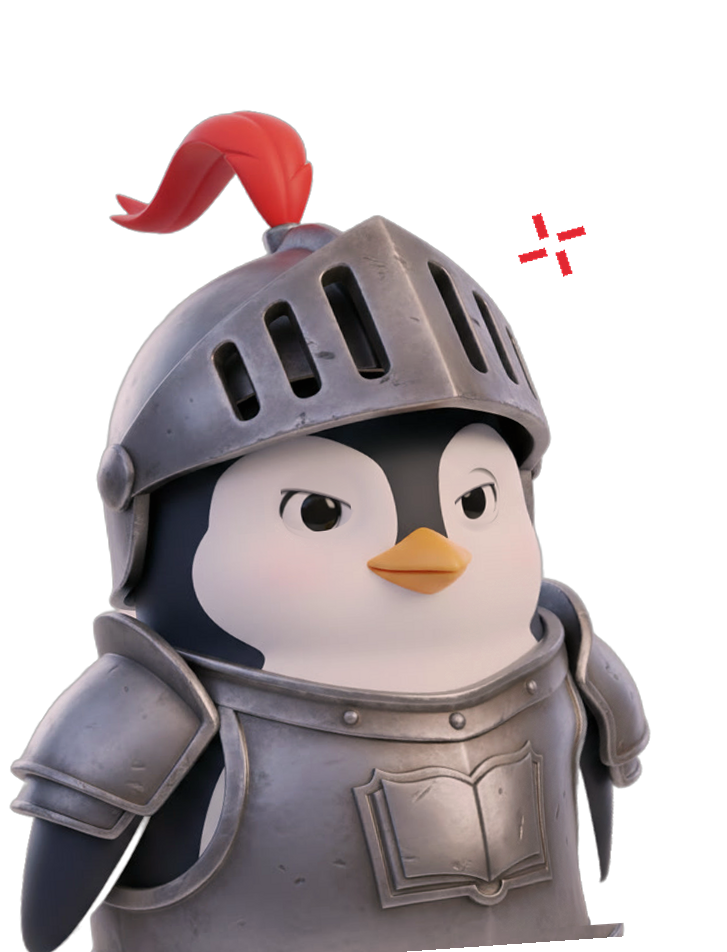
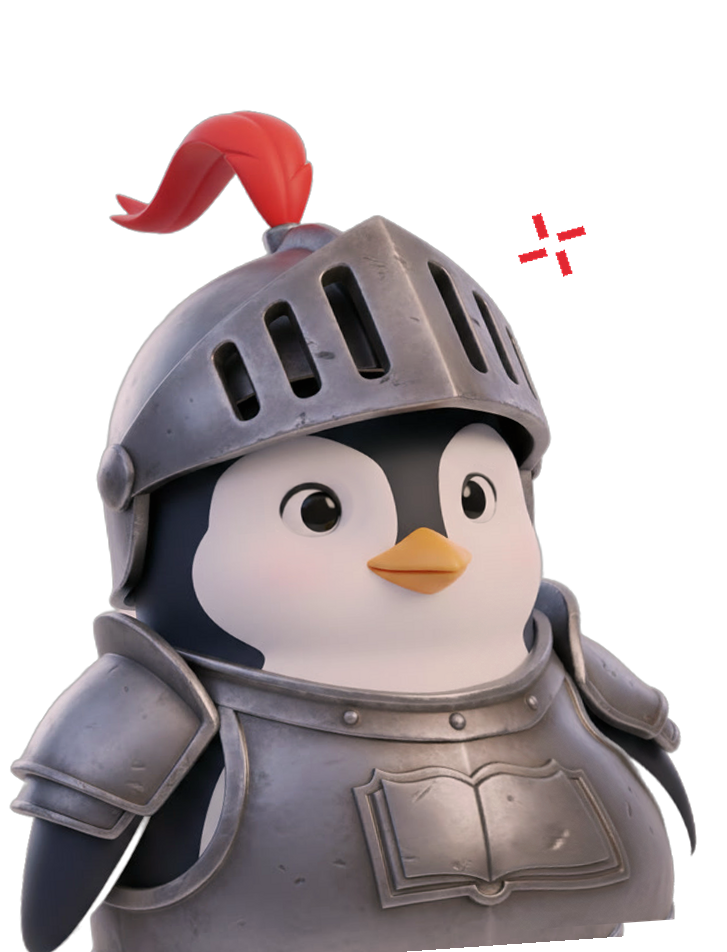
Моргание: глаза открыты, моргание 0.12–0.18 с раз в 3–6 с
- Глаза по умолчанию полностью открыты: убраны полуприкрытые веки
  у важного, злого, задумчивого и испуганного.
- Моргание: закрыть 0.04 с, кадр закрыто, открыть — всего 0.12–0.18 с;
  случайно раз в 3–6 с, иногда двойное. Без лишних морганий при смене эмоции.
- Прищур только у [смеющийся] и не дольше 1 с.
- Веко рисуется только в пределах глаза; место глаза заливается
  гармонической заливкой, без пятен и швов.
- assets/sir_lat/blink_check/: кадры до, во время и после моргания и прищура.

Claude-Session: https://claude.ai/code/session_01Av9aVcnuGWnAGAmF4SFuLt

diff --git a/sirlat/character.py b/sirlat/character.py
@@ -58,26 +58,27 @@ def base_image() -> Image.Image:
 # --------------------------------------------------------------- параметры ---
 # Все размеры в пикселях исходной картинки (масштабируются под кадр).
 # angle: + — наклон к экрану (влево); visor: − вверх, + вниз;
-# lid_top/lid_bot: доля закрытия века сверху/снизу; tilt: + внутренние уголки
+# Глаза по умолчанию полностью открыты; прищур (lid_top/lid_bot/curve) — только у
+# смеющегося и не дольше 1 с. lid_top/lid_bot: доля закрытия века; tilt: + внутренние уголки
 # век ниже (хмурится), − выше (волнуется); curve: «улыбчивые» нижние веки.
 EMO = {
     "important":  dict(angle=-2.5, scale=1.04, sx=1.00, sy=1.02, dx=0.00, dy=0.000, visor=-2,
-                       lid_top=0.30, lid_bot=0.00, tilt=-0.05, curve=0.0, eye=1.00, gx=0.0, gy=0.0,
+                       lid_top=0.00, lid_bot=0.00, tilt=0.00, curve=0.0, eye=1.00, gx=0.0, gy=0.0,
                        sway=0.8, shake=0.0, hop=0.0, tint=(1.0, 1.0, 1.0)),
     "surprised":  dict(angle=0.0, scale=1.08, sx=0.97, sy=1.05, dx=0.00, dy=-0.020, visor=-14,
                        lid_top=0.00, lid_bot=0.00, tilt=0.00, curve=0.0, eye=1.22, gx=0.0, gy=-0.1,
                        sway=0.5, shake=0.0, hop=0.0, tint=(1.0, 1.0, 1.0)),
     "laughing":   dict(angle=2.0, scale=1.03, sx=1.00, sy=1.00, dx=0.00, dy=0.000, visor=-5,
-                       lid_top=0.22, lid_bot=0.36, tilt=0.00, curve=0.45, eye=1.00, gx=0.0, gy=0.0,
+                       lid_top=0.14, lid_bot=0.22, tilt=0.00, curve=0.30, eye=1.00, gx=0.0, gy=0.0,
                        sway=1.4, shake=0.0, hop=1.0, tint=(1.04, 1.0, 0.98)),
     "angry":      dict(angle=6.0, scale=1.07, sx=1.04, sy=0.97, dx=-0.02, dy=0.000, visor=9,
-                       lid_top=0.30, lid_bot=0.08, tilt=0.55, curve=0.0, eye=0.95, gx=-0.2, gy=0.0,
+                       lid_top=0.00, lid_bot=0.00, tilt=0.00, curve=0.0, eye=0.95, gx=-0.2, gy=0.0,
                        sway=0.4, shake=0.6, hop=0.0, tint=(1.06, 0.95, 0.94)),
     "thoughtful": dict(angle=7.0, scale=0.98, sx=1.00, sy=1.00, dx=0.00, dy=0.000, visor=-4,
-                       lid_top=0.18, lid_bot=0.10, tilt=0.00, curve=0.0, eye=1.00, gx=-0.55, gy=-0.6,
+                       lid_top=0.00, lid_bot=0.00, tilt=0.00, curve=0.0, eye=1.00, gx=-0.55, gy=-0.6,
                        sway=1.2, shake=0.0, hop=0.0, tint=(1.0, 1.0, 1.0)),
     "scared":     dict(angle=-7.0, scale=0.91, sx=0.96, sy=0.98, dx=0.03, dy=0.000, visor=-7,
-                       lid_top=0.00, lid_bot=0.00, tilt=-0.35, curve=0.0, eye=1.14, gx=0.0, gy=0.0,
+                       lid_top=0.00, lid_bot=0.00, tilt=0.00, curve=0.0, eye=1.14, gx=0.0, gy=0.0,
                        sway=0.3, shake=2.5, hop=0.0, tint=(0.94, 0.98, 1.08)),
 }
 # позы: добавки к телу и положение крыльев (градусы, + — крыло поднимается наружу)
@@ -203,9 +204,13 @@ class Animator:
         self.gaze = [0.0, 0.0]
         self.gaze_target = [0.0, 0.0]
         self.next_saccade = self.rnd.uniform(0.8, 2.5)
-        self.blink_start = self.rnd.uniform(0.8, 2.5)
-        self.blink_queue = []
+        # моргание: 0.12–0.18 с, раз в 3–6 с, иногда двойное
+        self.next_blink = self.rnd.uniform(1.5, 4.0)
+        self.blink_t0, self.blink_dur = -10.0, 0.15
+        self.double_pending = False
+        self.last_blink = 0.0
         self.prev_emotion = None
+        self.emotion_since = 0.0
         self.t = 0.0
         self._mouth_cache = {}
 
@@ -238,8 +243,16 @@ class Animator:
             fill_h = left[:, None] * (1 - u) + right[:, None] * u
             fill = 0.5 * fill_v + 0.5 * fill_h
             d = ((xx - lx) / (rx * 1.3)) ** 2 + ((yy - ly) / (ry * 1.3)) ** 2
-            m = np.clip((1.0 - d) * 2.5, 0, 1)[..., None]
-            eyeless = patch * (1 - m) + fill * m
+            # гармоническая заливка: цвет плавно «растекается» от краёв области
+            # внутрь, поэтому на месте глаза нет заметного пятна или кольца
+            hole = d <= 1.0
+            eyeless = patch.copy()
+            eyeless[hole] = fill[hole]
+            for _ in range(400):
+                avg = (np.roll(eyeless, 1, 0) + np.roll(eyeless, -1, 0)
+                       + np.roll(eyeless, 1, 1) + np.roll(eyeless, -1, 1)) / 4
+                eyeless[hole] = avg[hole]
+            hole_soft = np.clip((1.0 - d) * 4, 0, 1)
             # сам глаз — RGBA с мягкой эллиптической маской
             de = ((xx - lx) / (rx * 1.12)) ** 2 + ((yy - ly) / (ry * 1.12)) ** 2
             ea = np.clip((1.0 - de) * 5, 0, 1)
@@ -248,7 +261,7 @@ class Animator:
             inner = 1 if cx < self.P(*self._beak_center())[0] else -1   # где внутренний уголок
             self.eyes.append(dict(cx=cx, cy=cy, rx=rx, ry=ry, box=(bx0, by0, bx1, by1),
                                   eyeless=eyeless, eye=Image.fromarray(eye_rgba.astype(np.uint8), "RGBA"),
-                                  lx=lx, ly=ly, inner=inner, yy=yy, xx=xx))
+                                  lx=lx, ly=ly, inner=inner, yy=yy, xx=xx, hole=hole_soft))
 
     def _beak_center(self):
         x0, y0, x1, y1 = LM["beak"]
@@ -415,6 +428,8 @@ class Animator:
         closed = y_top >= y_bot - 0.6
         lid = np.clip(y_top - yy + 0.5, 0, 1) + np.clip(yy - y_bot + 0.5, 0, 1)
         lid = np.maximum(np.clip(lid, 0, 1), closed.astype(np.float32))[..., None]
+        # веко — только в пределах глаза и его «впадины»; у открытого глаза ничего не меняем
+        lid = lid * e["hole"][..., None] * min(1.0, (lid_top + lid_bot) * 8)
         img[..., :3] = img[..., :3] * (1 - lid) + eyeless[..., :3] * lid
         # тёмная линия по краю верхнего века; у закрытого глаза — дуга
         inside = (np.abs(nx) < 0.97) & (yy > oy - rys * 1.3) & (yy < oy + rys * 1.3)
@@ -471,9 +486,8 @@ class Animator:
         for k in self.w_pose:
             self.w_pose[k] = _approach(self.w_pose[k], 1.0 if k == pose else 0.0, dt, 0.1)
         if emotion != self.prev_emotion:
-            if self.prev_emotion is not None and self.rnd.random() < 0.6:
-                self.blink_start = t + 0.05      # моргнуть при смене эмоции
             self.prev_emotion = emotion
+            self.emotion_since = t
         E = {k: sum(self.w_emo[e] * EMO[e][k] for e in EMO) for k in EMO["important"] if k != "tint"}
         tint = [sum(self.w_emo[e] * EMO[e]["tint"][i] for e in EMO) for i in range(3)]
         Pz = {k: sum(self.w_pose[p] * POSE[p][k] for p in POSE) for k in POSE["none"]}
@@ -500,20 +514,35 @@ class Animator:
         gx = max(-1.2, min(1.2, self.gaze[0] * (1 - self.w_emo["thoughtful"] * 0.6) + E["gx"]))
         gy = max(-1.0, min(1.0, self.gaze[1] * (1 - self.w_emo["thoughtful"] * 0.6) + E["gy"]))
 
-        # моргание: закрыть ~0.07 с, открыть ~0.12 с; иногда дважды
-        if t >= self.blink_start + 0.3:
-            double = self.rnd.random() < 0.18
-            self.blink_start = t + (0.12 if double else self.rnd.uniform(2.0, 5.5))
-        bt = t - self.blink_start
+        # моргание: быстро закрыть (0.04 с), один кадр закрыто (0.04 с), открыть;
+        # всего 0.12–0.18 с. Раз в 3–6 с, иногда сразу второе (двойное).
+        if t >= self.next_blink:
+            self.blink_t0 = self.next_blink
+            self.blink_dur = self.rnd.uniform(0.12, 0.18)
+            if not self.double_pending and self.rnd.random() < 0.18:
+                self.double_pending = True
+                self.next_blink = self.blink_t0 + self.blink_dur + self.rnd.uniform(0.08, 0.14)
+            else:
+                self.double_pending = False
+                self.next_blink = self.blink_t0 + self.rnd.uniform(3.0, 6.0)
+        bt = t - self.blink_t0
         blink = 0.0
-        if 0 <= bt < 0.07:
-            blink = bt / 0.07
-        elif 0.07 <= bt < 0.10:
+        if 0 <= bt < 0.04:
+            blink = bt / 0.04
+        elif 0.04 <= bt < 0.08:
             blink = 1.0
-        elif 0.10 <= bt < 0.22:
-            blink = 1 - (bt - 0.10) / 0.12
-        lid_top = E["lid_top"] + (1 - E["lid_top"]) * blink
-        lid_bot = E["lid_bot"] * (1 - blink)
+        elif 0.08 <= bt < self.blink_dur:
+            blink = 1 - (bt - 0.08) / (self.blink_dur - 0.08)
+        self.last_blink = blink
+        # прищур — только у смеющегося и не дольше 1 с (последние 0.2 с — плавно открывает)
+        since = t - self.emotion_since
+        squint = self.w_emo["laughing"] * (1.0 if since < 0.8 else max(0.0, 1 - (since - 0.8) / 0.2))
+        L = EMO["laughing"]
+        base_top, base_bot = L["lid_top"] * squint, L["lid_bot"] * squint
+        lid_top = base_top + (1 - base_top) * blink
+        lid_bot = base_bot * (1 - blink)
+        E["curve"] = L["curve"] * squint
+        E["tilt"] = 0.0
 
         # жесты крыльями на ударных словах
         wing = {"l": Pz["wing_l"], "r": Pz["wing_r"]}
